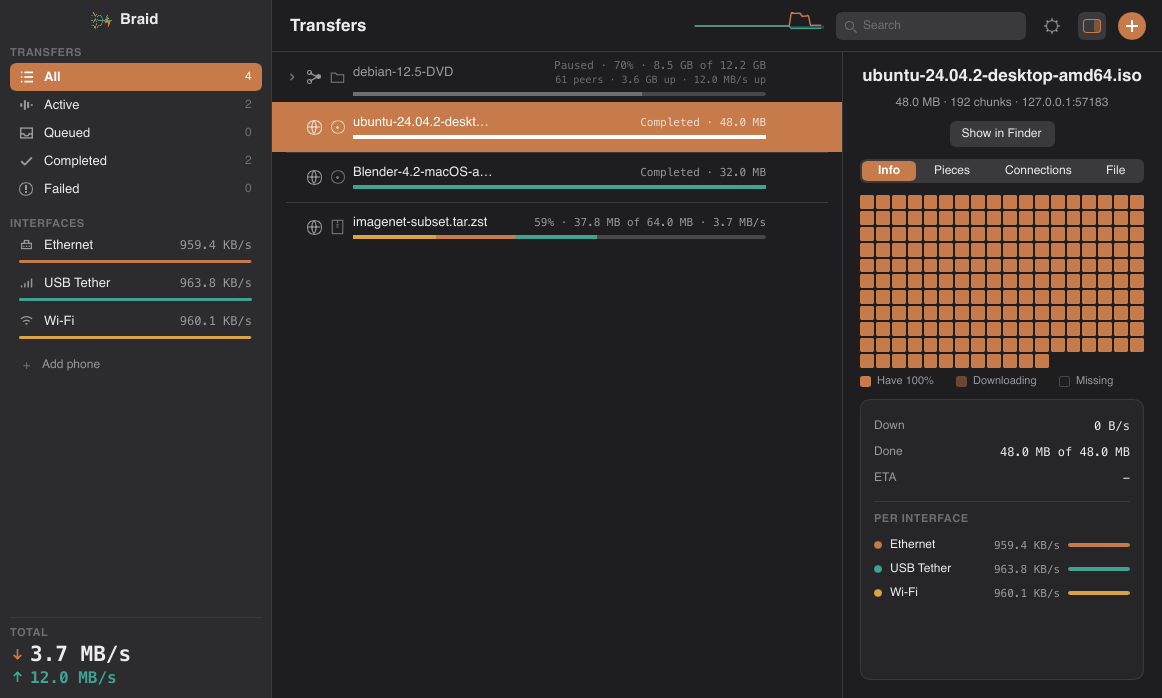
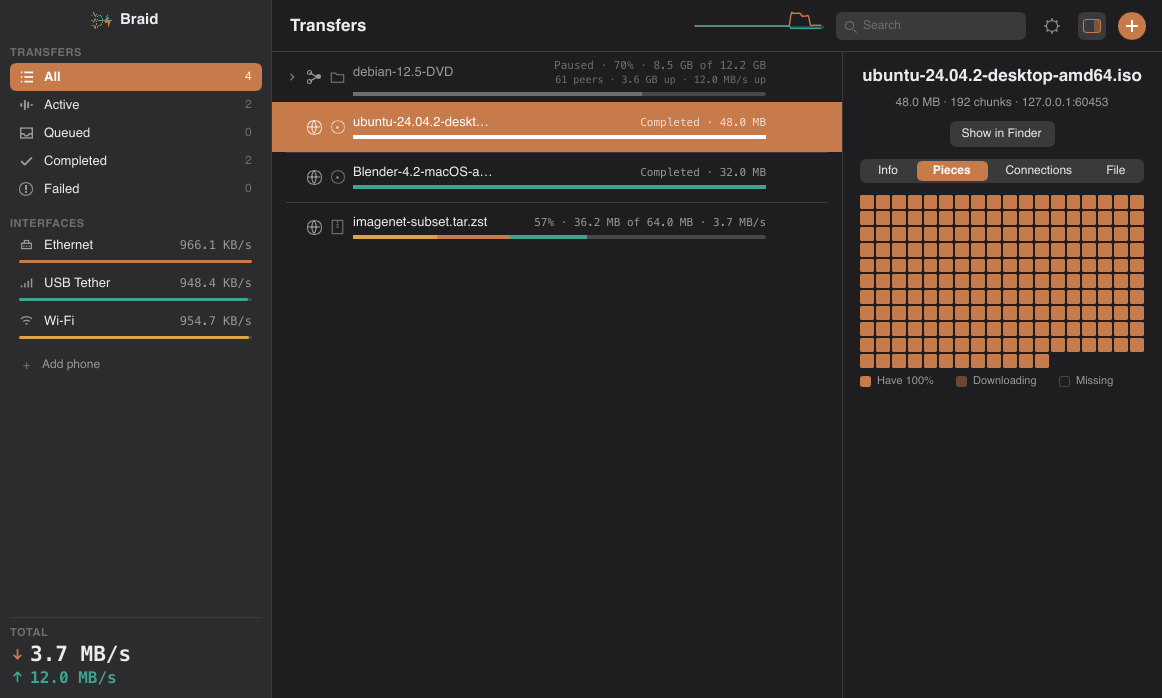
Draw the piece grid once, and only as large as the panel

diff --git a/crates/dl-gui/src/bridge.rs b/crates/dl-gui/src/bridge.rs
@@ -40,7 +40,11 @@ const INSPECTOR_EVERY: u32 = 5;
 ///
 /// A 60 GB torrent at 256 KB pieces is 240,000 pieces. No grid should attempt
 /// that, and silently drawing a prefix would be a lie about what is on disk.
-const MAX_CELLS: usize = 4_000;
+/// The grid is 18 columns wide and does not scroll, so anything past the
+/// bottom of the panel is laid out and never seen. Four thousand cells meant
+/// 223 rows, of which about thirty were visible, rebuilt on every tick: the
+/// panel stuttered and the work was wasted. This is what fits.
+const MAX_CELLS: usize = 18 * 32;
 const CHART_POINTS: usize = 60;
 
 /// Smallest full-scale the throughput chart will use, in bytes per second.
